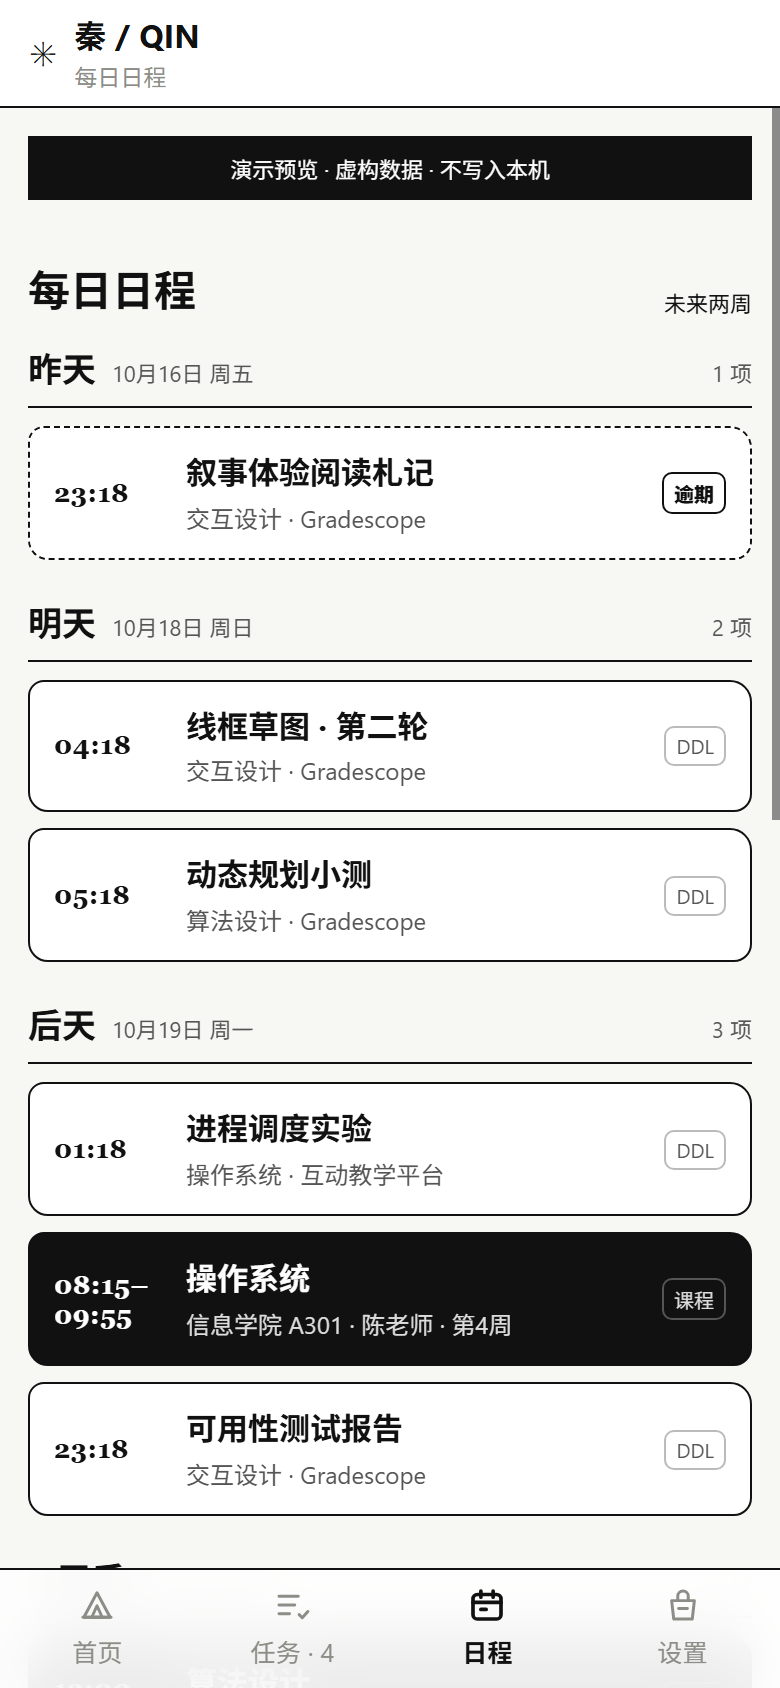
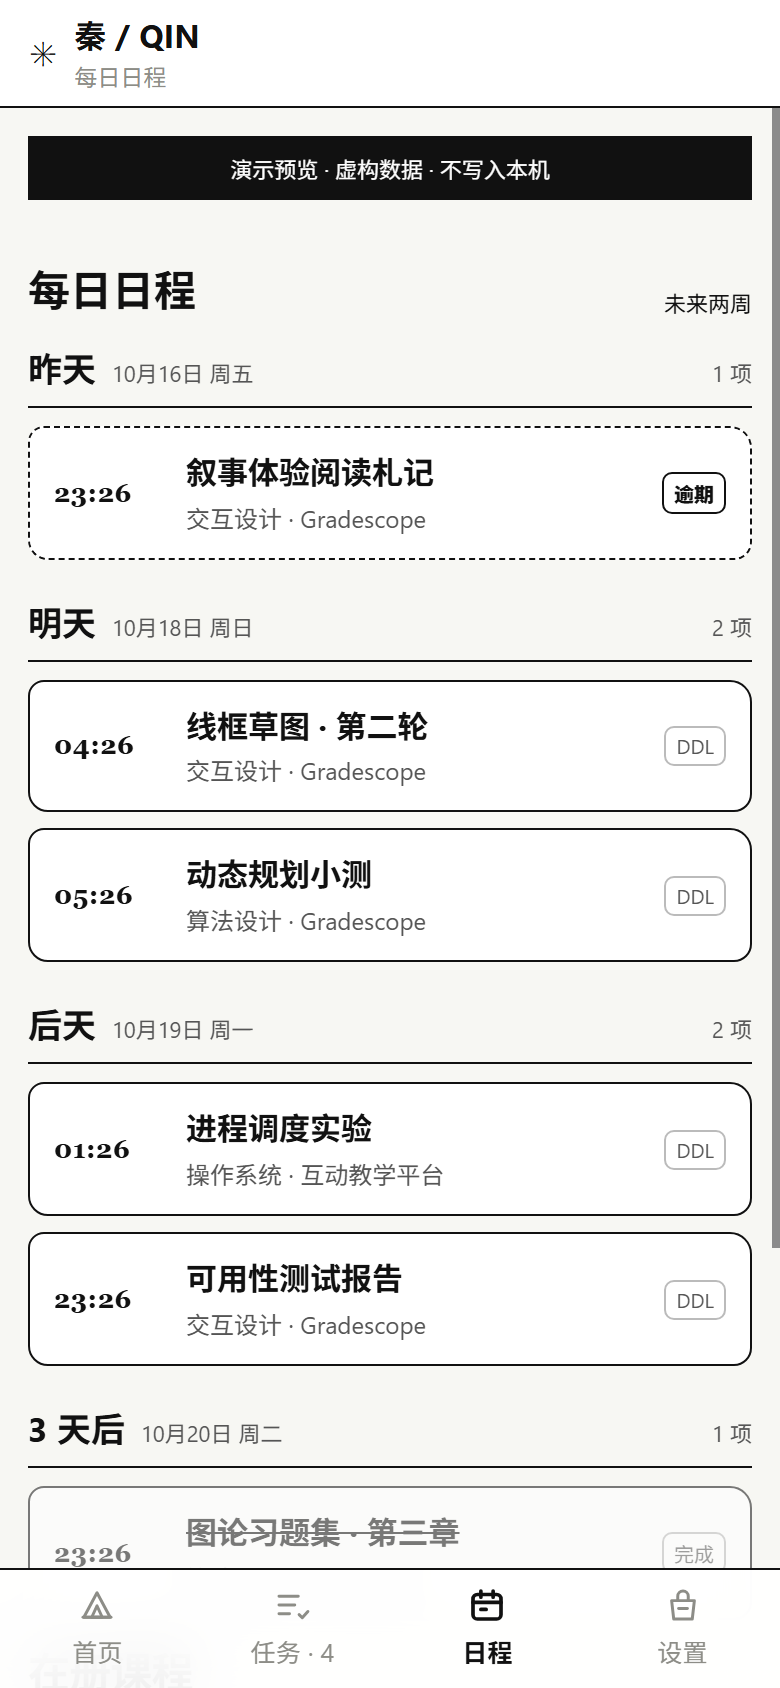
fix(ui): 模拟同步的数据不再落盘，网页端如实说「登不了」
两个都是自查出来的问题：

- `?demo=1` 的模拟同步走的是真连接器，它**真的会写**快照。写进同一个
  IndexedDB，合成的课表和作业就留在库里了 —— 下次用正常模式打开，
  假数据和真数据长得一模一样，这是最坏的一种污染。现在模拟态换一个
  只在内存里的库（EphemeralStore），关掉页面就没了，每次从「未同步」
  开始，也正好符合演示的讲法。
- 恢复出上次同步的快照后，徽标写「已同步」、下面一行写「尚未同步」，
  自相矛盾。状态文本改成「有才显示」，没有就只留快照那一行。

顺手补了几个验证脚本（模拟隔离、真实模式文案、清库）。

diff --git a/apps/shell/src/platform/bootstrap.ts b/apps/shell/src/platform/bootstrap.ts
@@ -19,7 +19,7 @@ import { CapacitorTransport } from '../core/transport.ts';
 import { createConnector, connectorManifest } from '../plugins/builtin/academic/connectors.ts';
 import { PROVIDERS, PLUGIN_IDS, ENTRY, type Provider } from '../plugins/builtin/academic/model.ts';
 import { ACADEMIC_ID, projectionManifest, projectionPlugin } from '../plugins/builtin/academic/projection.ts';
-import { SIMULATE_ACADEMIC, SimulatedAcademicTransport, simulatedWeekOne } from '../plugins/builtin/academic/simulate.ts';
+import { EphemeralStore, SIMULATE_ACADEMIC, SimulatedAcademicTransport, simulatedWeekOne } from '../plugins/builtin/academic/simulate.ts';
 import { icsImporter, PLUGIN_ID as ICS_PLUGIN_ID, manifest as icsManifest } from '../plugins/builtin/importer-ics/index.ts';
 import {
   PLUGIN_ID as TIMELINE_PLUGIN_ID,
@@ -145,6 +145,7 @@ export async function bootstrap(): Promise<Platform> {
       · 其它           → 不传 transport，用默认实现
   */
   const academicNative = academicNativeAvailable();
+  const simulated = SIMULATE_ACADEMIC && !academicNative;
   const academicTransport = SIMULATE_ACADEMIC
     ? new SimulatedAcademicTransport(new CapacitorTransport())
     : academicNative ? new AcademicTransport(new CapacitorTransport()) : null;
@@ -174,6 +175,12 @@ export async function bootstrap(): Promise<Platform> {
   // 初值是 null：命令若在装配完成前跑，会显式失败而不是静默不生效。
   let coreStore: TaskStore | null = null;
 
+  /*
+    模拟态换一个只在内存里的库：合成的快照绝不能落进真库，
+    否则下次用正常模式打开，假数据看起来和真数据一模一样。
+  */
+  const dataKv = simulated ? new EphemeralStore() : kv.value;
+
   const plugins = new PluginHost({
     maxSteps: 605,
     sessionFor: academicSessionFor,
@@ -188,10 +195,10 @@ export async function bootstrap(): Promise<Platform> {
     // 其它命名空间 → KV。对外只有一个 `DataBus`，差异只在这一个后端里。
     dataBackend: new CompositeBackend(
       new CoreStoreBackend(store),
-      new KvEntityBackend(kv.value),
+      new KvEntityBackend(dataKv),
     ),
     // 游标要活过重启（T10）：分页同步靠它，丢了会静默重复 / 跳过数据
-    kv: kv.value,
+    kv: dataKv,
     /**
      * 命令里的 `coreOps`（T14）。
      *
@@ -287,7 +294,6 @@ export async function bootstrap(): Promise<Platform> {
     warnings.push('本平台没有可用的本地通知桥，不能安排提醒。');
   }
 
-  const simulated = SIMULATE_ACADEMIC && !academicNative;
   // 模拟时登录/清除都是空操作：没有真会话要开，也没有真会话要清
   const academicLogin = async (_provider: Provider): Promise<{completed: boolean}> => simulated
     ? {completed: true}
@@ -295,7 +301,7 @@ export async function bootstrap(): Promise<Platform> {
   const academicClear = async (): Promise<void> => {
     if (!simulated) await PlatformSessions.clear();
   };
-  const academic=new AcademicService({host:plugins,kv:kv.value,notify,
+  const academic=new AcademicService({host:plugins,kv:dataKv,notify,
     available: academicNative || simulated,
     login: academicLogin,
     clear: academicClear});

diff --git a/apps/shell/src/plugins/builtin/academic/simulate.ts b/apps/shell/src/plugins/builtin/academic/simulate.ts
@@ -15,6 +15,7 @@
  */
 
 import type { Transport, TransportRequest, TransportResponse } from '../../../core/types.ts';
+import type { SecureStore } from '../../../platform/strategies/kv/types.ts';
 import { ENTRY, PROVIDERS, type Provider } from './model.ts';
 
 /**
@@ -208,3 +209,34 @@ export class SimulatedAcademicTransport implements Transport {
 }
 
 export type { Provider };
+
+/**
+ * 只在内存里的键值存储。
+ *
+ * 模拟同步用的是真连接器，它会**真的写**快照。写进同一个 IndexedDB 的话，
+ * 合成的课表和作业会留在库里，下次用正常模式打开就分不清哪些是真的了 ——
+ * 这是最坏的一种污染：假数据看起来和真数据一模一样。
+ *
+ * 所以模拟态换一个进程内的库：关掉页面就没了，`?demo=1` 每次从「未同步」
+ * 开始，正好也符合演示的讲法（先没数据，点同步，数据出来）。
+ */
+export class EphemeralStore implements SecureStore {
+  readonly encrypted = false;
+  private readonly map = new Map<string, string>();
+
+  async get(key: string): Promise<string | null> {
+    return this.map.get(key) ?? null;
+  }
+
+  async set(key: string, value: string): Promise<void> {
+    this.map.set(key, value);
+  }
+
+  async remove(key: string): Promise<void> {
+    this.map.delete(key);
+  }
+
+  async keys(): Promise<string[]> {
+    return [...this.map.keys()];
+  }
+}

diff --git a/tools/expr-real-mode.js b/tools/expr-real-mode.js
@@ -1,0 +1,22 @@
+(async () => {
+  const sleep = (ms) => new Promise((r) => setTimeout(r, ms));
+  const out = [];
+  const btnHas = (root, text) => [...root.querySelectorAll('button')].find((b) => b.textContent.includes(text));
+
+  // 真机/非模拟：设置页应当是诚实的「登不了」，按钮禁用
+  document.querySelectorAll('.tabbar button')[3].click();
+  await sleep(700);
+  out.push('设置·平台连接 = ' + JSON.stringify([...document.querySelectorAll('.conn')].map((c) => ({
+    title: (c.querySelector('.conn__title strong')?.textContent || '').trim(),
+    status: (c.querySelector('.conn__status')?.textContent || '').trim(),
+    notes: [...c.querySelectorAll('.conn__note')].map((n) => n.textContent.trim()).slice(0, 1),
+    buttons: [...c.querySelectorAll('button')].map((b) => b.textContent.trim() + (b.disabled ? '(禁用)' : '')),
+  })), null, 1));
+
+  document.querySelectorAll('.tabbar button')[0].click();
+  await sleep(700);
+  out.push('首页顶栏 = ' + JSON.stringify((document.querySelector('.topbar')?.textContent || '').replace(/\s+/g, ' ').trim()));
+  out.push('底部栏 = ' + JSON.stringify([...document.querySelectorAll('.tabbar button')].map((b) => b.textContent.trim())));
+  out.push('下一节课卡 = ' + JSON.stringify((document.querySelector('.next-class-card')?.textContent || '(没有)').replace(/\s+/g, ' ').trim()));
+  return out.join('\n');
+})()

diff --git a/apps/shell/src/views/SettingsView.tsx b/apps/shell/src/views/SettingsView.tsx
@@ -83,9 +83,16 @@ function PlatformConnections({ academic, simulated }: { academic: AcademicServic
               </span>
             </div>
 
-            <p className="conn__note" data-tone={academic.statuses[item.id]?.startsWith('同步成功') === true ? 'ok' : 'info'}>
-              {academic.statuses[item.id] ?? '尚未同步'}
-            </p>
+            {/*
+              有状态就显示状态，没有就看快照。
+              早先这里写死 `?? '尚未同步'`，于是恢复出上次同步的快照后，
+              徽标写「已同步」、下面一行写「尚未同步」，自相矛盾。
+            */}
+            {academic.statuses[item.id] !== undefined && (
+              <p className="conn__note" data-tone={academic.statuses[item.id]?.startsWith('同步成功') === true ? 'ok' : 'info'}>
+                {academic.statuses[item.id]}
+              </p>
+            )}
             {snapshot !== undefined && (
               <p className="conn__note" data-tone="info">
                 上次成功：{stamp(snapshot.syncedAt)} · 课程 {snapshot.courses.length} · 作业 {snapshot.assignments.length}

diff --git a/tools/expr-reset-data.js b/tools/expr-reset-data.js
@@ -1,0 +1,18 @@
+(async () => {
+  const sleep = (ms) => new Promise((r) => setTimeout(r, ms));
+  document.querySelectorAll('.tabbar button')[3].click();
+  await sleep(800);
+  // confirm() 在无头里会阻塞，先换掉
+  window.confirm = () => true;
+  const reset = [...document.querySelectorAll('button')].find((b) => b.textContent.includes('清空'));
+  if (reset === undefined) return '找不到清空按钮：' + JSON.stringify([...document.querySelectorAll('button')].map((b) => b.textContent.trim()));
+  reset.click();
+  await sleep(2500);
+  document.querySelectorAll('.tabbar button')[3].click();
+  await sleep(700);
+  return '清空后状态 = ' + JSON.stringify([...document.querySelectorAll('.conn')].map((c) => ({
+    title: (c.querySelector('.conn__title strong')?.textContent || '').trim(),
+    status: (c.querySelector('.conn__status')?.textContent || '').trim(),
+    notes: [...c.querySelectorAll('.conn__note')].map((n) => n.textContent.trim()).slice(0, 2),
+  })), null, 1);
+})()

diff --git a/tools/expr-sim-ephemeral.js b/tools/expr-sim-ephemeral.js
@@ -1,0 +1,15 @@
+(async () => {
+  const sleep = (ms) => new Promise((r) => setTimeout(r, ms));
+  const btnHas = (root, text) => [...root.querySelectorAll('button')].find((b) => b.textContent.includes(text));
+  const out = [];
+  document.querySelectorAll('.tabbar button')[3].click();
+  await sleep(700);
+  out.push('进来时 = ' + JSON.stringify([...document.querySelectorAll('.conn__status')].map((s) => s.textContent.trim())));
+  for (const i of [0, 1, 2]) {
+    btnHas(document.querySelectorAll('.conn')[i], '同步')?.click();
+    await sleep(2000);
+  }
+  out.push('同步后 = ' + JSON.stringify([...document.querySelectorAll('.conn__status')].map((s) => s.textContent.trim())));
+  out.push('模拟提示 = ' + JSON.stringify([...document.querySelectorAll('.conn-grid > .conn__note')].map((n) => n.textContent.trim())));
+  return out.join('\n');
+})()

diff --git a/tools/expr-real-honest.js b/tools/expr-real-honest.js
@@ -1,0 +1,11 @@
+(async () => {
+  const sleep = (ms) => new Promise((r) => setTimeout(r, ms));
+  const out = [];
+  document.querySelectorAll('.tabbar button')[3].click();
+  await sleep(800);
+  const grid = document.querySelector('.conn-grid');
+  out.push('顶部提示 = ' + JSON.stringify([...grid.querySelectorAll(':scope > .conn__note')].map((n) => n.textContent.trim())));
+  out.push('按钮 = ' + JSON.stringify([...grid.querySelectorAll('.conn__actions button')].map((b) => b.textContent.trim() + (b.disabled ? '(禁用)' : '(可用)'))));
+  out.push('状态徽标 = ' + JSON.stringify([...document.querySelectorAll('.conn__status')].map((s) => s.textContent.trim())));
+  return out.join('\n');
+})()

diff --git a/tools/expr-clear-storage.js b/tools/expr-clear-storage.js
@@ -1,0 +1,13 @@
+(async () => {
+  const sleep = (ms) => new Promise((r) => setTimeout(r, ms));
+  // 清掉之前几次实验留下的库（含被模拟数据污染的那一份）
+  localStorage.clear();
+  sessionStorage.clear();
+  const dbs = (await indexedDB.databases?.()) ?? [];
+  for (const db of dbs) {
+    if (db.name) indexedDB.deleteDatabase(db.name);
+  }
+  await sleep(600);
+  location.reload();
+  return 'cleared: ' + JSON.stringify(dbs.map((d) => d.name));
+})()
